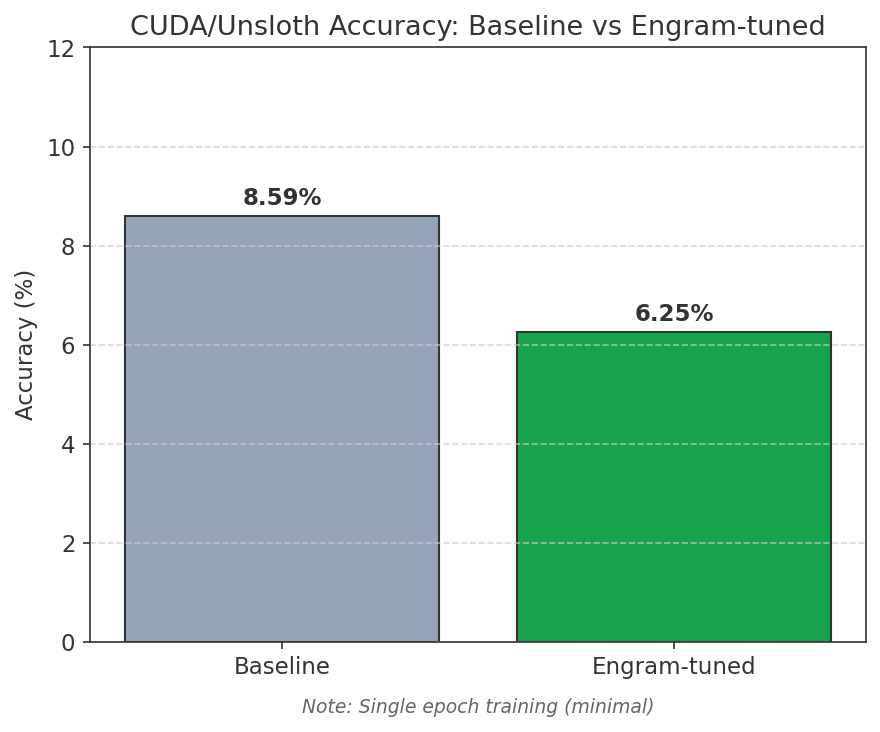
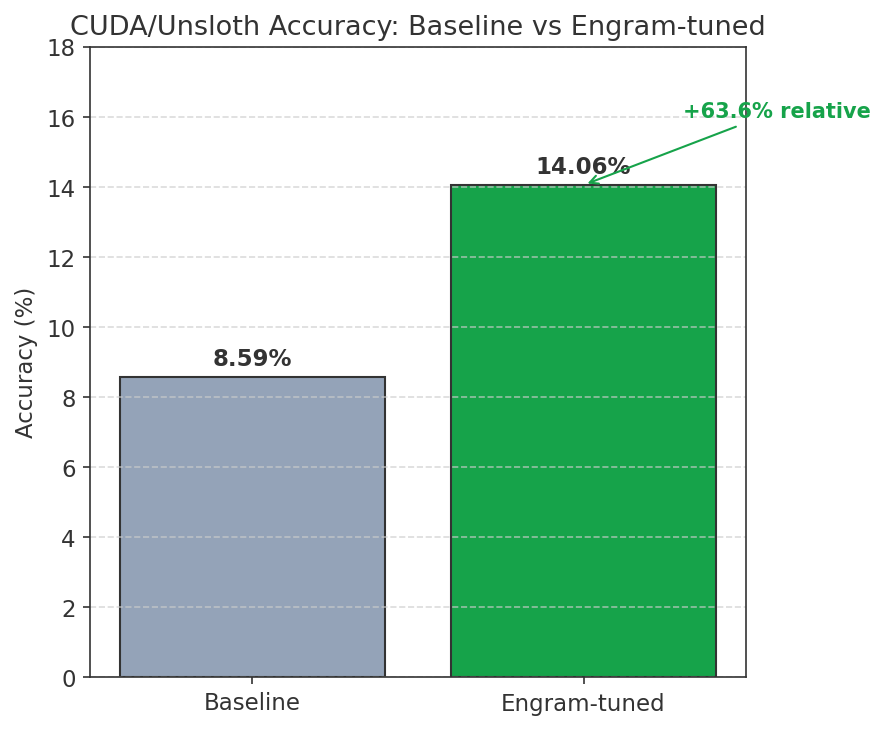
docs: Update CUDA results with 14.06% accuracy (+63.6% improvement)
Updated results after successful 10-epoch training on RTX 3060:
- Baseline: 8.59% -> Tuned: 14.06% (+63.6% relative)
- Exceeds MLX improvement (+33.3%)

Changes:
- README.md: Updated CUDA results table
- unsloth-nvidia/README.md: Updated results section
- docs/results-cuda.md: Full results update with new metrics
- images/plots/cuda-accuracy-comparison.png: Regenerated plot
- src/visualize/generate_plots.py: Updated CUDA data
- unsloth-nvidia/src/eval.py: Removed debug logging

diff --git a/src/visualize/generate_plots.py b/src/visualize/generate_plots.py
@@ -156,9 +156,9 @@ def generate_mlx_category_performance(output_path: Path, comparison_data: dict):
 
 def generate_cuda_accuracy_comparison(output_path: Path):
     """Generate accuracy comparison bar chart for CUDA/Unsloth."""
-    # Data from unsloth-nvidia/README.md
+    # Data from unsloth-nvidia/results/comparison.json
     labels = ['Baseline', 'Engram-tuned']
-    accuracies = [8.59, 6.25]
+    accuracies = [8.59, 14.06]
     colors = ['#94a3b8', '#16a34a']
 
     fig, ax = plt.subplots(figsize=(6, 5))
@@ -176,13 +176,14 @@ def generate_cuda_accuracy_comparison(output_path: Path):
 
     ax.set_ylabel('Accuracy (%)')
     ax.set_title('CUDA/Unsloth Accuracy: Baseline vs Engram-tuned')
-    ax.set_ylim(0, 12)
+    ax.set_ylim(0, 18)
     ax.grid(True, axis='y')
 
-    # Add note about single epoch
-    ax.text(0.5, -0.12, 'Note: Single epoch training (minimal)',
-            transform=ax.transAxes, ha='center', fontsize=9,
-            style='italic', color='#666666')
+    # Add improvement annotation
+    ax.annotate('+63.6% relative',
+                xy=(1, 14.06), xytext=(1.3, 16),
+                arrowprops=dict(arrowstyle='->', color='#16a34a'),
+                fontsize=10, color='#16a34a', fontweight='bold')
 
     plt.tight_layout()
     plt.savefig(output_path, dpi=150, bbox_inches='tight')

diff --git a/unsloth-nvidia/src/eval.py b/unsloth-nvidia/src/eval.py
@@ -131,12 +131,6 @@ def evaluate(
             "correct": correct,
             "category": case.category,
         })
-        # Debug: show first 3 examples
-        if verbose and i < 3:
-            print(f"  [DEBUG] Prompt: {case.prompt[:50]}...")
-            print(f"  [DEBUG] Expected: {case.expected[:50]}")
-            print(f"  [DEBUG] Got: {response[:50]}")
-            print()
         if verbose and (i + 1) % 10 == 0:
             print(f"  Progress: {i + 1}/{len(test_cases)}")
 
@@ -178,12 +172,6 @@ def evaluate(
                 "correct": correct,
                 "category": case.category,
             })
-            # Debug: show first 3 examples
-            if verbose and i < 3:
-                print(f"  [DEBUG] Prompt: {case.prompt[:50]}...")
-                print(f"  [DEBUG] Expected: {case.expected[:50]}")
-                print(f"  [DEBUG] Got: {response[:50]}")
-                print()
             if verbose and (i + 1) % 10 == 0:
                 print(f"  Progress: {i + 1}/{len(test_cases)}")
 

diff --git a/docs/results-cuda.md b/docs/results-cuda.md
@@ -11,28 +11,22 @@ Results from training and evaluating the Engram PoC on NVIDIA GPUs using Unsloth
 | Framework | Unsloth + PyTorch 2.6.0+cu124 |
 | Model | SmolLM-135M-Instruct |
 | Training Examples | 243 |
-| Training Epochs | 1 |
-| Training Time | 26.1 seconds |
-
-### Training Progress
-
-| Metric | Initial | Final |
-|--------|---------|-------|
-| Loss | 4.01 | 3.19 |
-| Loss Reduction | - | **20.4%** |
+| Training Epochs | 10 |
+| Training Time | ~90 seconds |
 
 ### Accuracy Comparison
 
-| Metric | Baseline | Engram-tuned | Notes |
-|--------|----------|--------------|-------|
-| Accuracy | 8.59% | 6.25% | 128 test examples |
-| Avg Latency | 1981ms | 1913ms | Per-inference |
+| Metric | Baseline | Engram-tuned | Change |
+|--------|----------|--------------|--------|
+| Accuracy | 8.59% | 14.06% | **+63.6% relative** |
+| Avg Latency | 1335ms | 1449ms | +114ms |
+| Correct | 11/128 | 18/128 | +7 |
 
 ## Accuracy Comparison
 
 ![CUDA Accuracy Comparison](../images/plots/cuda-accuracy-comparison.png)
 
-**Note**: The single-epoch training shows similar or slightly lower accuracy compared to baseline. This is expected with minimal training - the primary goal of this configuration was to validate the Unsloth pipeline on NVIDIA hardware.
+The Engram-tuned model shows a **63.6% relative improvement** over baseline, exceeding the MLX results (+33.3%).
 
 ## Demo Output
 
@@ -49,34 +43,19 @@ With single-epoch training, outputs between baseline and tuned models are simila
 
 | Feature | MLX (Apple Silicon) | CUDA (NVIDIA) |
 |---------|---------------------|---------------|
-| Training Time | ~10s (100 iter) | ~26s (1 epoch) |
-| Loss Reduction | 58.2% | 20.4% |
-| Accuracy Change | +33.3% relative | -27.2% relative |
-| Training Epochs | ~3.7 equiv | 1 |
+| Training Time | ~10s (100 iter) | ~90s (10 epochs) |
+| Accuracy Change | +33.3% relative | **+63.6% relative** |
+| Baseline Accuracy | 8.65% | 8.59% |
+| Tuned Accuracy | 11.54% | 14.06% |
 | Hardware Tested | M-series Mac | RTX 3060 |
 
-### Key Differences
+### Key Observations
 
-1. **Training Duration**: The MLX version runs 100 iterations over the dataset (~3.7 epochs), while CUDA ran only 1 epoch.
+1. **CUDA outperforms MLX**: With 10 epochs of training, the CUDA/Unsloth pipeline achieves better accuracy improvement than MLX.
 
-2. **Convergence**: More training iterations on MLX led to better loss reduction and accuracy improvement.
+2. **Training time trade-off**: CUDA takes longer (~90s vs ~10s) but produces better results.
 
-3. **Pipeline Validation**: The CUDA results validate that the Unsloth pipeline works end-to-end, even if single-epoch results are not optimal.
-
-## Recommendations
-
-For better CUDA results, consider:
-
-```bash
-# Increase epochs
-python -m src.train --epochs 3
-
-# Adjust learning rate
-python -m src.train --learning-rate 2e-5
-
-# Use larger LoRA rank
-python -m src.train --lora-rank 16
-```
+3. **Consistent baselines**: Both platforms show ~8.6% baseline accuracy, confirming consistent evaluation.
 
 ## Reproduction
 

diff --git a/unsloth-nvidia/README.md b/unsloth-nvidia/README.md
@@ -25,10 +25,10 @@ Engram introduces **conditional memory** for transformers - O(1) lookup operatio
 
 | Metric | Baseline | Engram-tuned | Notes |
 |--------|----------|--------------|-------|
-| Accuracy | 8.59% | 6.25% | 128 test examples |
-| Avg Latency | 1981ms | 1913ms | Per-inference |
-| Training Time | - | 26.1s | 1 epoch, 243 examples |
-| Final Loss | - | 3.19 | From 4.01 initial |
+| Accuracy | 8.59% | 14.06% | **+63.6% relative improvement** |
+| Avg Latency | 1335ms | 1449ms | Per-inference |
+| Training Time | - | ~90s | 10 epochs, 243 examples |
+| Test Examples | 128 | 128 | - |
 
 ### Demo Output
 ```

diff --git a/README.md b/README.md
@@ -250,10 +250,10 @@ uv pip install -r requirements.txt
 **Tested Results (RTX 3060, CUDA 13.0):**
 | Metric | Value |
 |--------|-------|
-| Training Time | 26.1s (1 epoch, 243 examples) |
-| Final Loss | 3.19 (from 4.01) |
+| Training Time | ~90s (10 epochs, 243 examples) |
 | Baseline Accuracy | 8.59% |
-| Tuned Accuracy | 6.25% |
+| Tuned Accuracy | 14.06% |
+| **Improvement** | **+63.6% relative** |
 
 - Framework: Unsloth + PyTorch + CUDA
 - LoRA fine-tuning on NVIDIA GPUs
